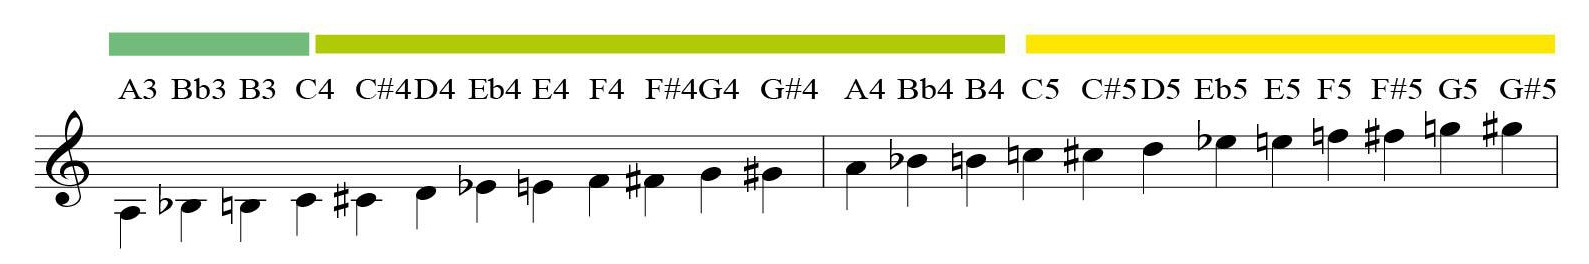
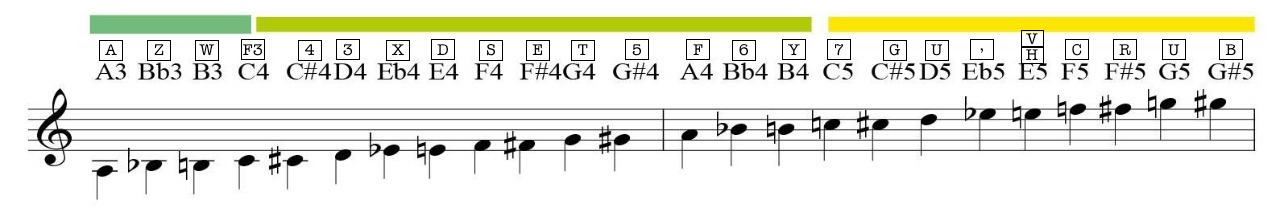
corregido overlays y agregado imagen de pentagrama derecha cerrando

diff --git a/bandolica.html b/bandolica.html
@@ -277,7 +277,9 @@ for (var i =0; i<37;i++){
 		if (keyCode != 32) {
 			tirarnota(entrakeysalenota(keyCode,true)); }
 		  else {
-			cambiaModo()
+			//cambiaModo()
+			setMode( modo % 2 == 0 ?  modo + 1 : modo - 1)
+			
 		}
 		
 		//}
@@ -353,6 +355,8 @@ for (var i =0; i<37;i++){
 	var posbotI_C = [["0vw","0vw"],["20.69vw","46.59vw"],["8.19vw","5.79vw"],["0vw","0vw"],["24.19vw","2.19vw"],["22.69vw","54.29vw"],["10.29vw","54.49vw"],["10.69vw","10.09vw"],["2.43vw","17.39vw"],["17.79vw","5.59vw"],["2.09vw","26.39vw"],["17.79vw","52.09vw"],["7.79vw","46.79vw"],["5.29vw","38.29vw"],["6.39vw","13.49vw"],["2.29vw","34.59vw"],["15.19vw","12.79vw"],["19.19vw","38.89vw"],["12.45vw","48.99vw"],["8.99vw","18.49vw"],["15.39vw","44.09vw"],["13.89vw","20.99vw"],["4.69vw","22.09vw"],["8.49vw","25.99vw"],["5.39vw","30.39vw"],["13.39vw","28.89vw"],["8.79vw","34.09vw"],["3.89vw","43.69vw"],["14.19vw","36.29vw"],["10.09vw","41.59vw"],["19.94vw","15.79vw"],["5.59vw","51.79vw"],["18.59vw","23.39vw"],["0vw","0vw"],["0vw","0vw"],["18.79vw","31.39vw"],["22.29vw","7.89vw"]];
     var posbotFull = [posbotD_A, posbotD_C, posbotI_A, posbotI_C ]
 	
+	var modo;
+	
 	var sourcesCabeza=[];  
 	for (var i = 0; i<100;i++) sourcesCabeza[i] = null;  
     
@@ -379,6 +383,8 @@ for (var i =0; i<37;i++){
 		
 		notas = notasFull[n];
 		posbot= posbotFull[n];
+		modo = n;
+		
 		
 		$("#img0").attr("src", imgsrc[0]);
 		$("#imgP1").attr("src", imgsrc[1]);
@@ -386,13 +392,22 @@ for (var i =0; i<37;i++){
 		
 		$(".botonota").css("width", n < 2 ? "3.2vw" : "3.8vw" );
 		$(".botonota").css("height", n < 2 ? "3.2vw" : "3.8vw" );
-		$(".overlay").css("width", n < 2 ? "2.18vw" : "2.9vw" );
+		
+		
+		/*$(".overlay").css("width", n < 2 ? "2.18vw" : "2.18vw" );
+		$("#tiagarro2 .overlay").css("width", n < 2 ? "2.9vw" : "2.9vw" );]*/
+		
+		
 		$("#titulo").html( n % 2 == 0 ? "abriendo" : "cerrando");
 		
 		reordenarOverlays();
 	}
 
 	function cambiaModo(){
+	
+		// funcion vieja, la dejamos nomas de recuerdo (?)
+		
+		
 		console.log("cambioModo");
 		estaAbriendo = !estaAbriendo;
 		if (estaAbriendo){
@@ -442,7 +457,7 @@ for (var i =0; i<37;i++){
 			$("#bono"+i).css("left", posbot[i][1]);
 			if (posbot[i][0] == "0vw") $("#bono"+i).css("display","none");
 			else $("#bono"+i).css("display","");
-			}
+		}
 	}
 	
 	function setColor(t){
